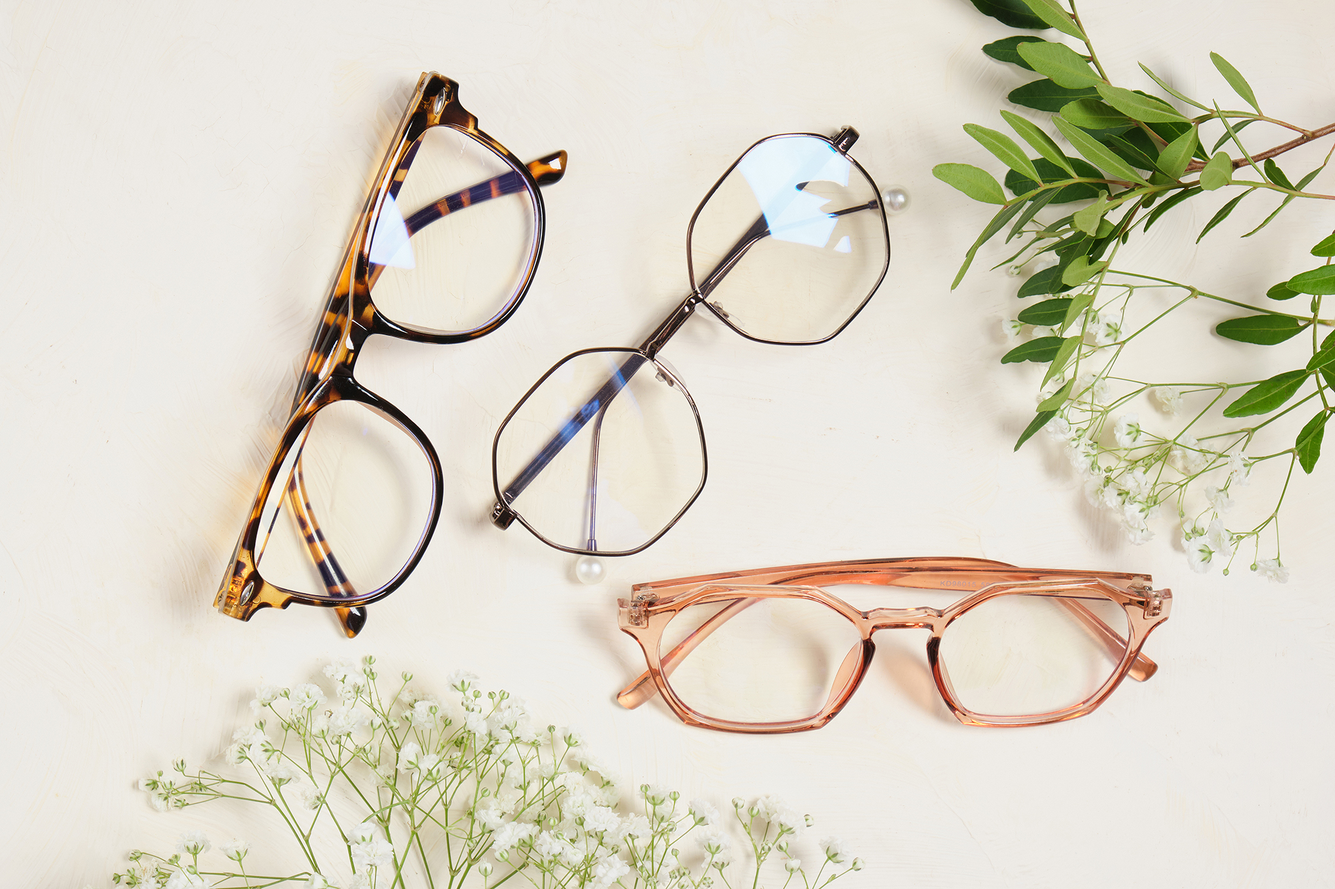
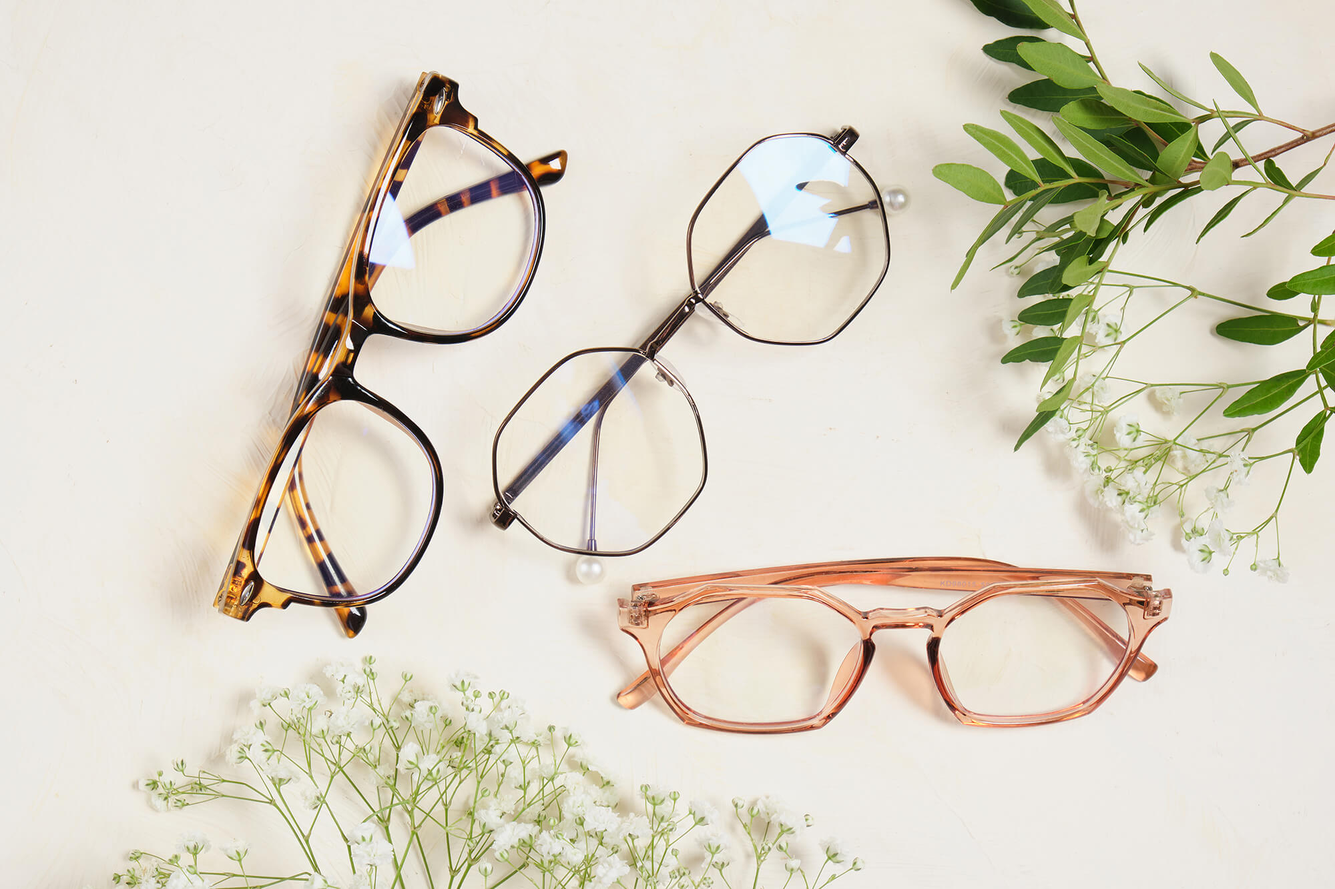
更換首頁圖片

Changed region(s): [[0.62, 0.1538, 0.651, 0.1845], [0.217, 0.4306, 0.248, 0.4614]]

diff --git a/app/assets/style/pages/_index.scss b/app/assets/style/pages/_index.scss
@@ -2,9 +2,10 @@
 /* heroImage
 ---------------------------*/
 .heroImage {
-	background-image: url("../../assets/images/index/banner1920.jpg");
+	background-image: url("../../assets/images/index/banner-375.jpg");
   height: 39.4rem;
   @media screen and (min-width: $mq768) {
+		background-image: url("../../assets/images/index/banner1920.jpg");
     height: 84rem;
   }
   &＿inner {
@@ -77,17 +78,17 @@
 			height: 32rem;
 		}
 		&.optical{
-			background-image: url("../../assets/images/index/product-1.png");
+			background-image: url("../../assets/images/index/product-10.jpg");
 		}
 		&.sunglasses{
-			background-image: url("../../assets/images/index/product-2.png");
+			background-image: url("../../assets/images/index/product-11.jpg");
 			transition: all .3s;
 			&:hover{
-				background-image: url("../../assets/images/index/product-2-color.png");
+				background-image: url("../../assets/images/index/product-11-color.jpg");
 			}
 		}
 		&.functional {
-			background-image: url("../../assets/images/index/product-3.png");
+			background-image: url("../../assets/images/index/product-12.jpg");
 		}
 	}
 	.txt{
@@ -163,10 +164,10 @@
 		}
 	}
 	&.Double{
-		background-image: url("https://hexschool.github.io/webLayoutTraining1st/week3/product-8.png");
+		background-image: url("../../assets/images/index/product-13.jpg");
 	}
 	&.YOUTH{
-		background-image: url("https://hexschool.github.io/webLayoutTraining1st/week3/product-9.png");
+		background-image: url("../../assets/images/index/product-14.jpg");
 	}
 }
 /*-------------------------*/

diff --git a/app/assets/style/layout/_header.scss b/app/assets/style/layout/_header.scss
@@ -118,7 +118,7 @@
         left: 50%;
         bottom: 0;
         transform: translateX(-50%);
-        background-color: $thirdly;
+        background-color: $fourthly;
         transition: all 0.8s;
       }
       &:hover::before{

diff --git a/app/assets/style/config/_variable.scss b/app/assets/style/config/_variable.scss
@@ -15,7 +15,7 @@ $mq320: 320px;
 $primary : #466305;
 $secondary : #682e08;
 $thirdly : #ede6d6;
-$fourthly : #dcdcdc;
+$fourthly : rgb(210, 196, 174);;
 $white : #fff;
 $black : #000;
 $bg-hover : #8a0702;

diff --git a/app/assets/style/modules/_subNav.scss b/app/assets/style/modules/_subNav.scss
@@ -24,6 +24,7 @@
   > span{
     font-size: 3rem;
     margin: auto;
+    color: $black;
   }
 }
 .subNavMenu{
